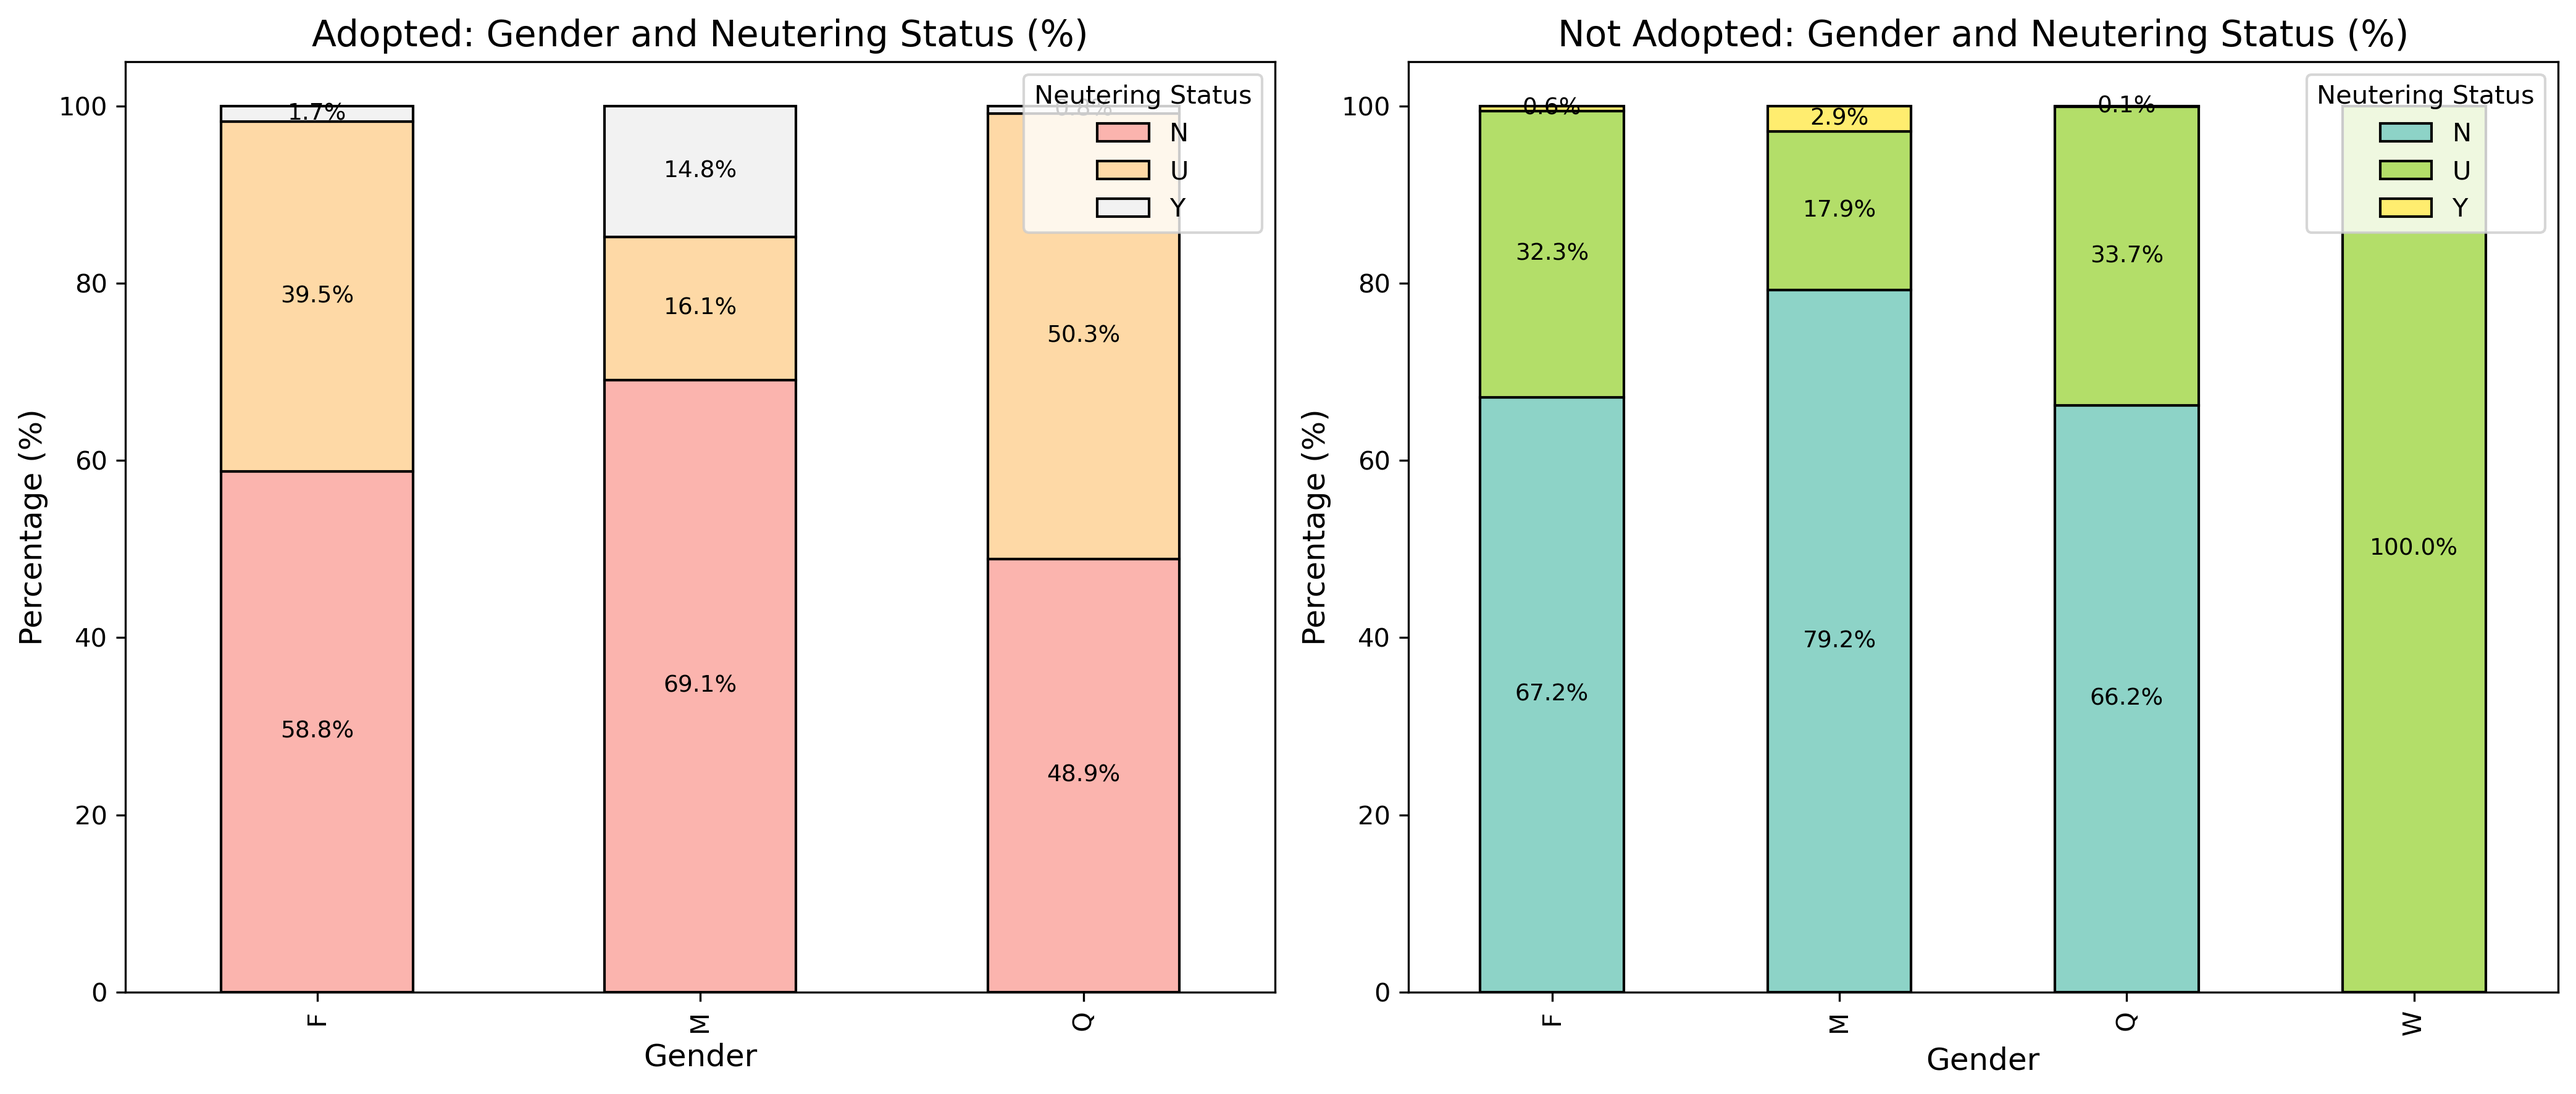
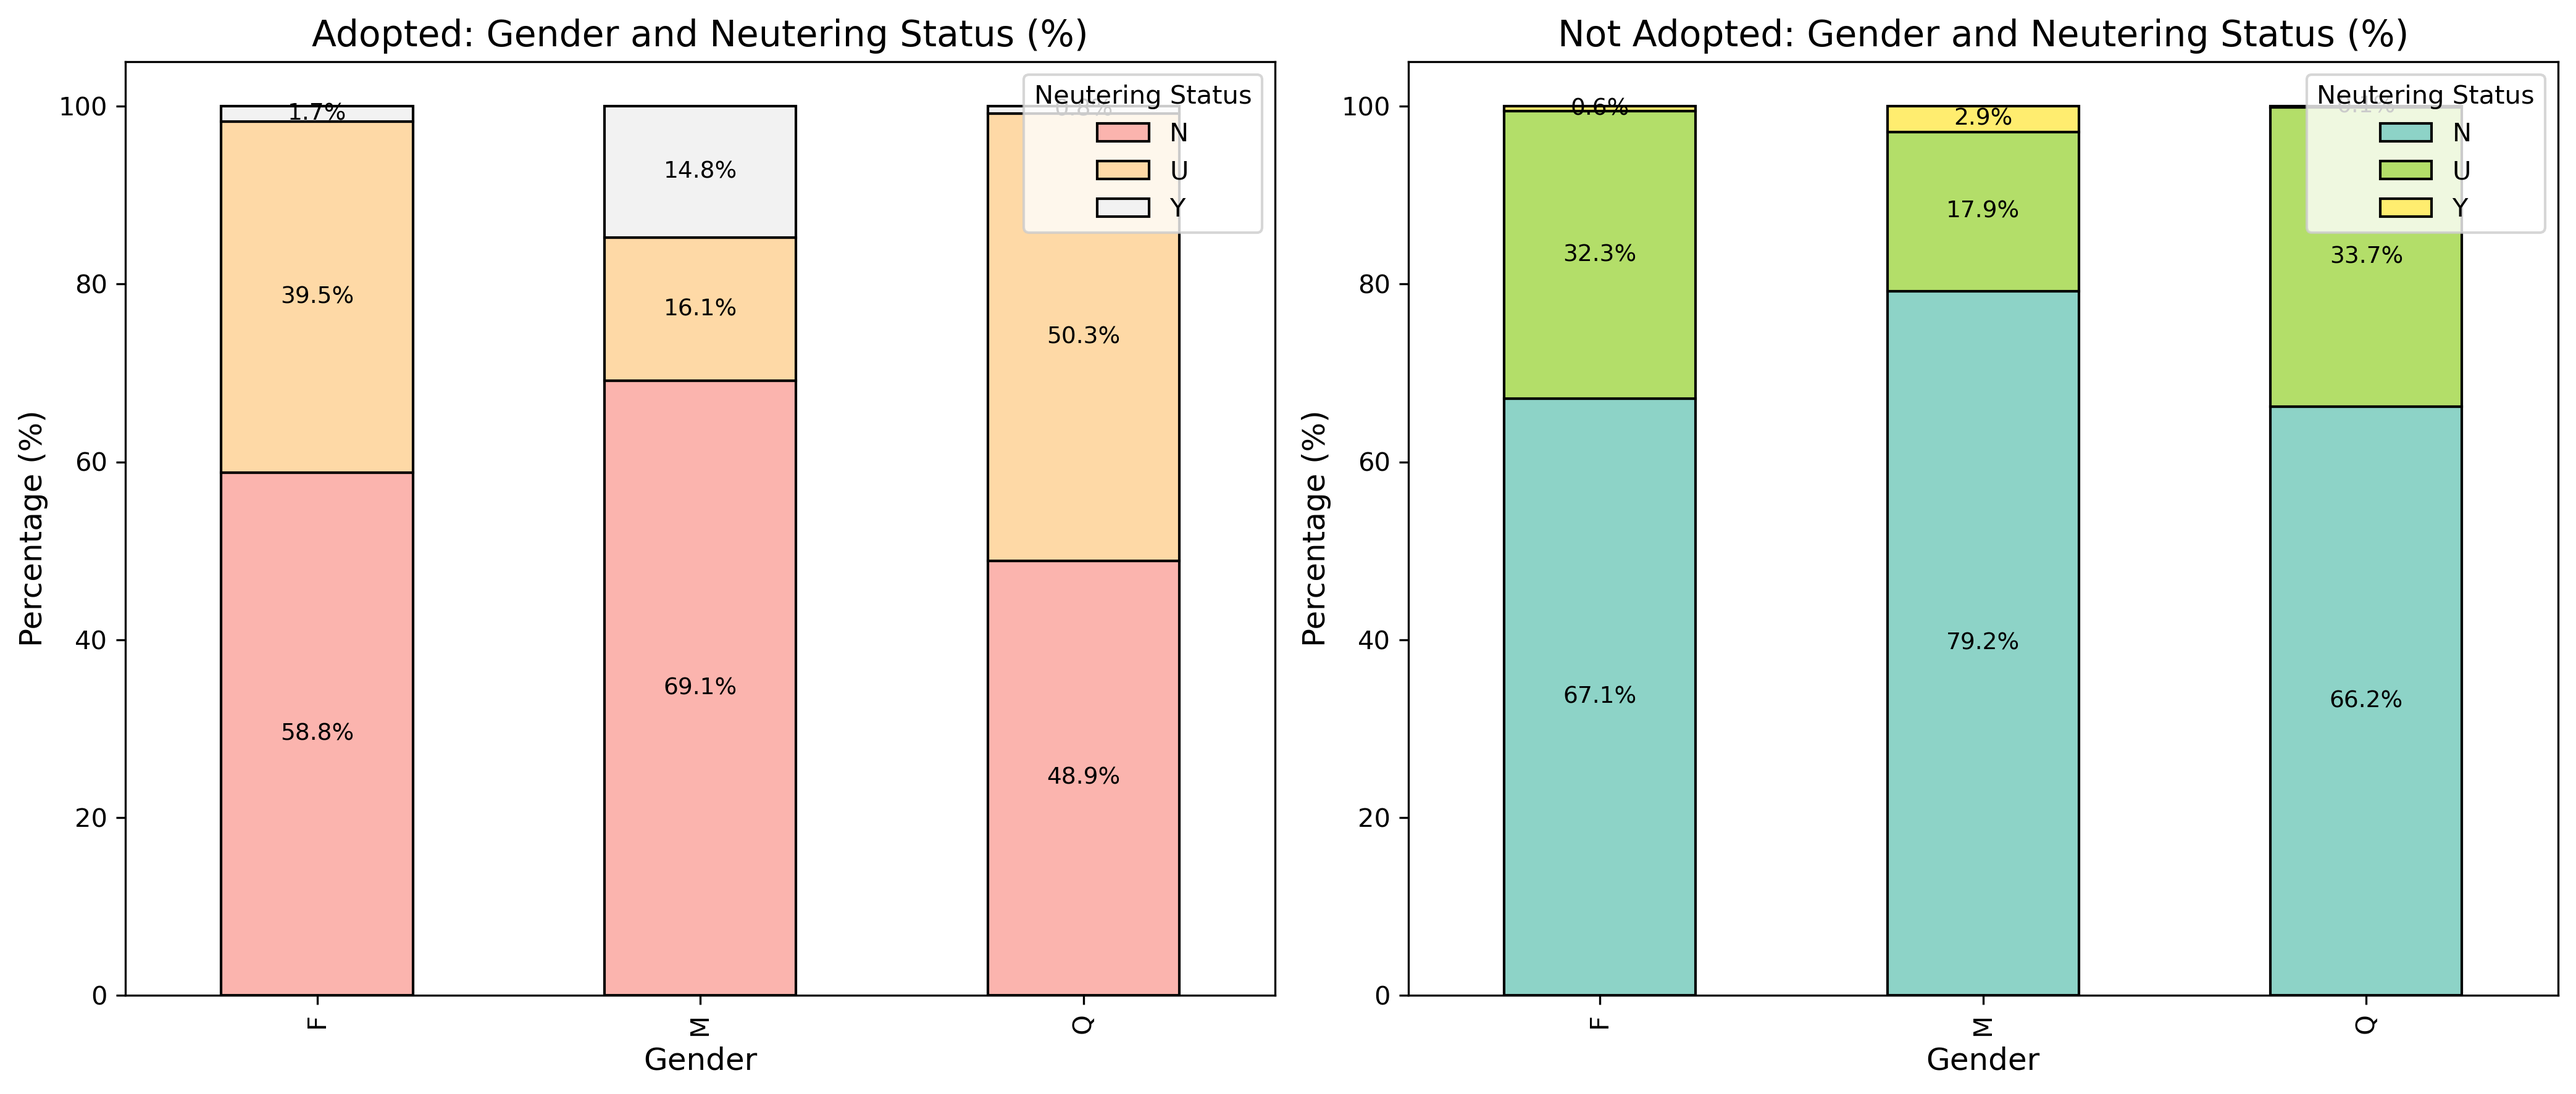
성별 W -> F로 수정

diff --git a/visualization/barchart_for_gender_neuteredstatus.py b/visualization/barchart_for_gender_neuteredstatus.py
@@ -98,6 +98,9 @@ try:
     adopted_data = pd.read_csv(adopted_csv_path, encoding='utf-8-sig', low_memory=False)  # 입양된 데이터
     unadopted_data = pd.read_csv(unadopted_csv_path, encoding='utf-8-sig', low_memory=False)  # 입양되지 않은 데이터
 
+    # unadopted_data에서 성별 값 'W'를 'F'로 변환(일부 잘못 입력된 데이터)
+    unadopted_data['성별'] = unadopted_data['성별'].replace('W', 'F')
+
     # 비율 기반 막대그래프 시각화 함수 호출 (그래프 위에 비율 표시 포함)
     plot_bar_charts_percentage_with_labels(adopted_data, unadopted_data)
 
